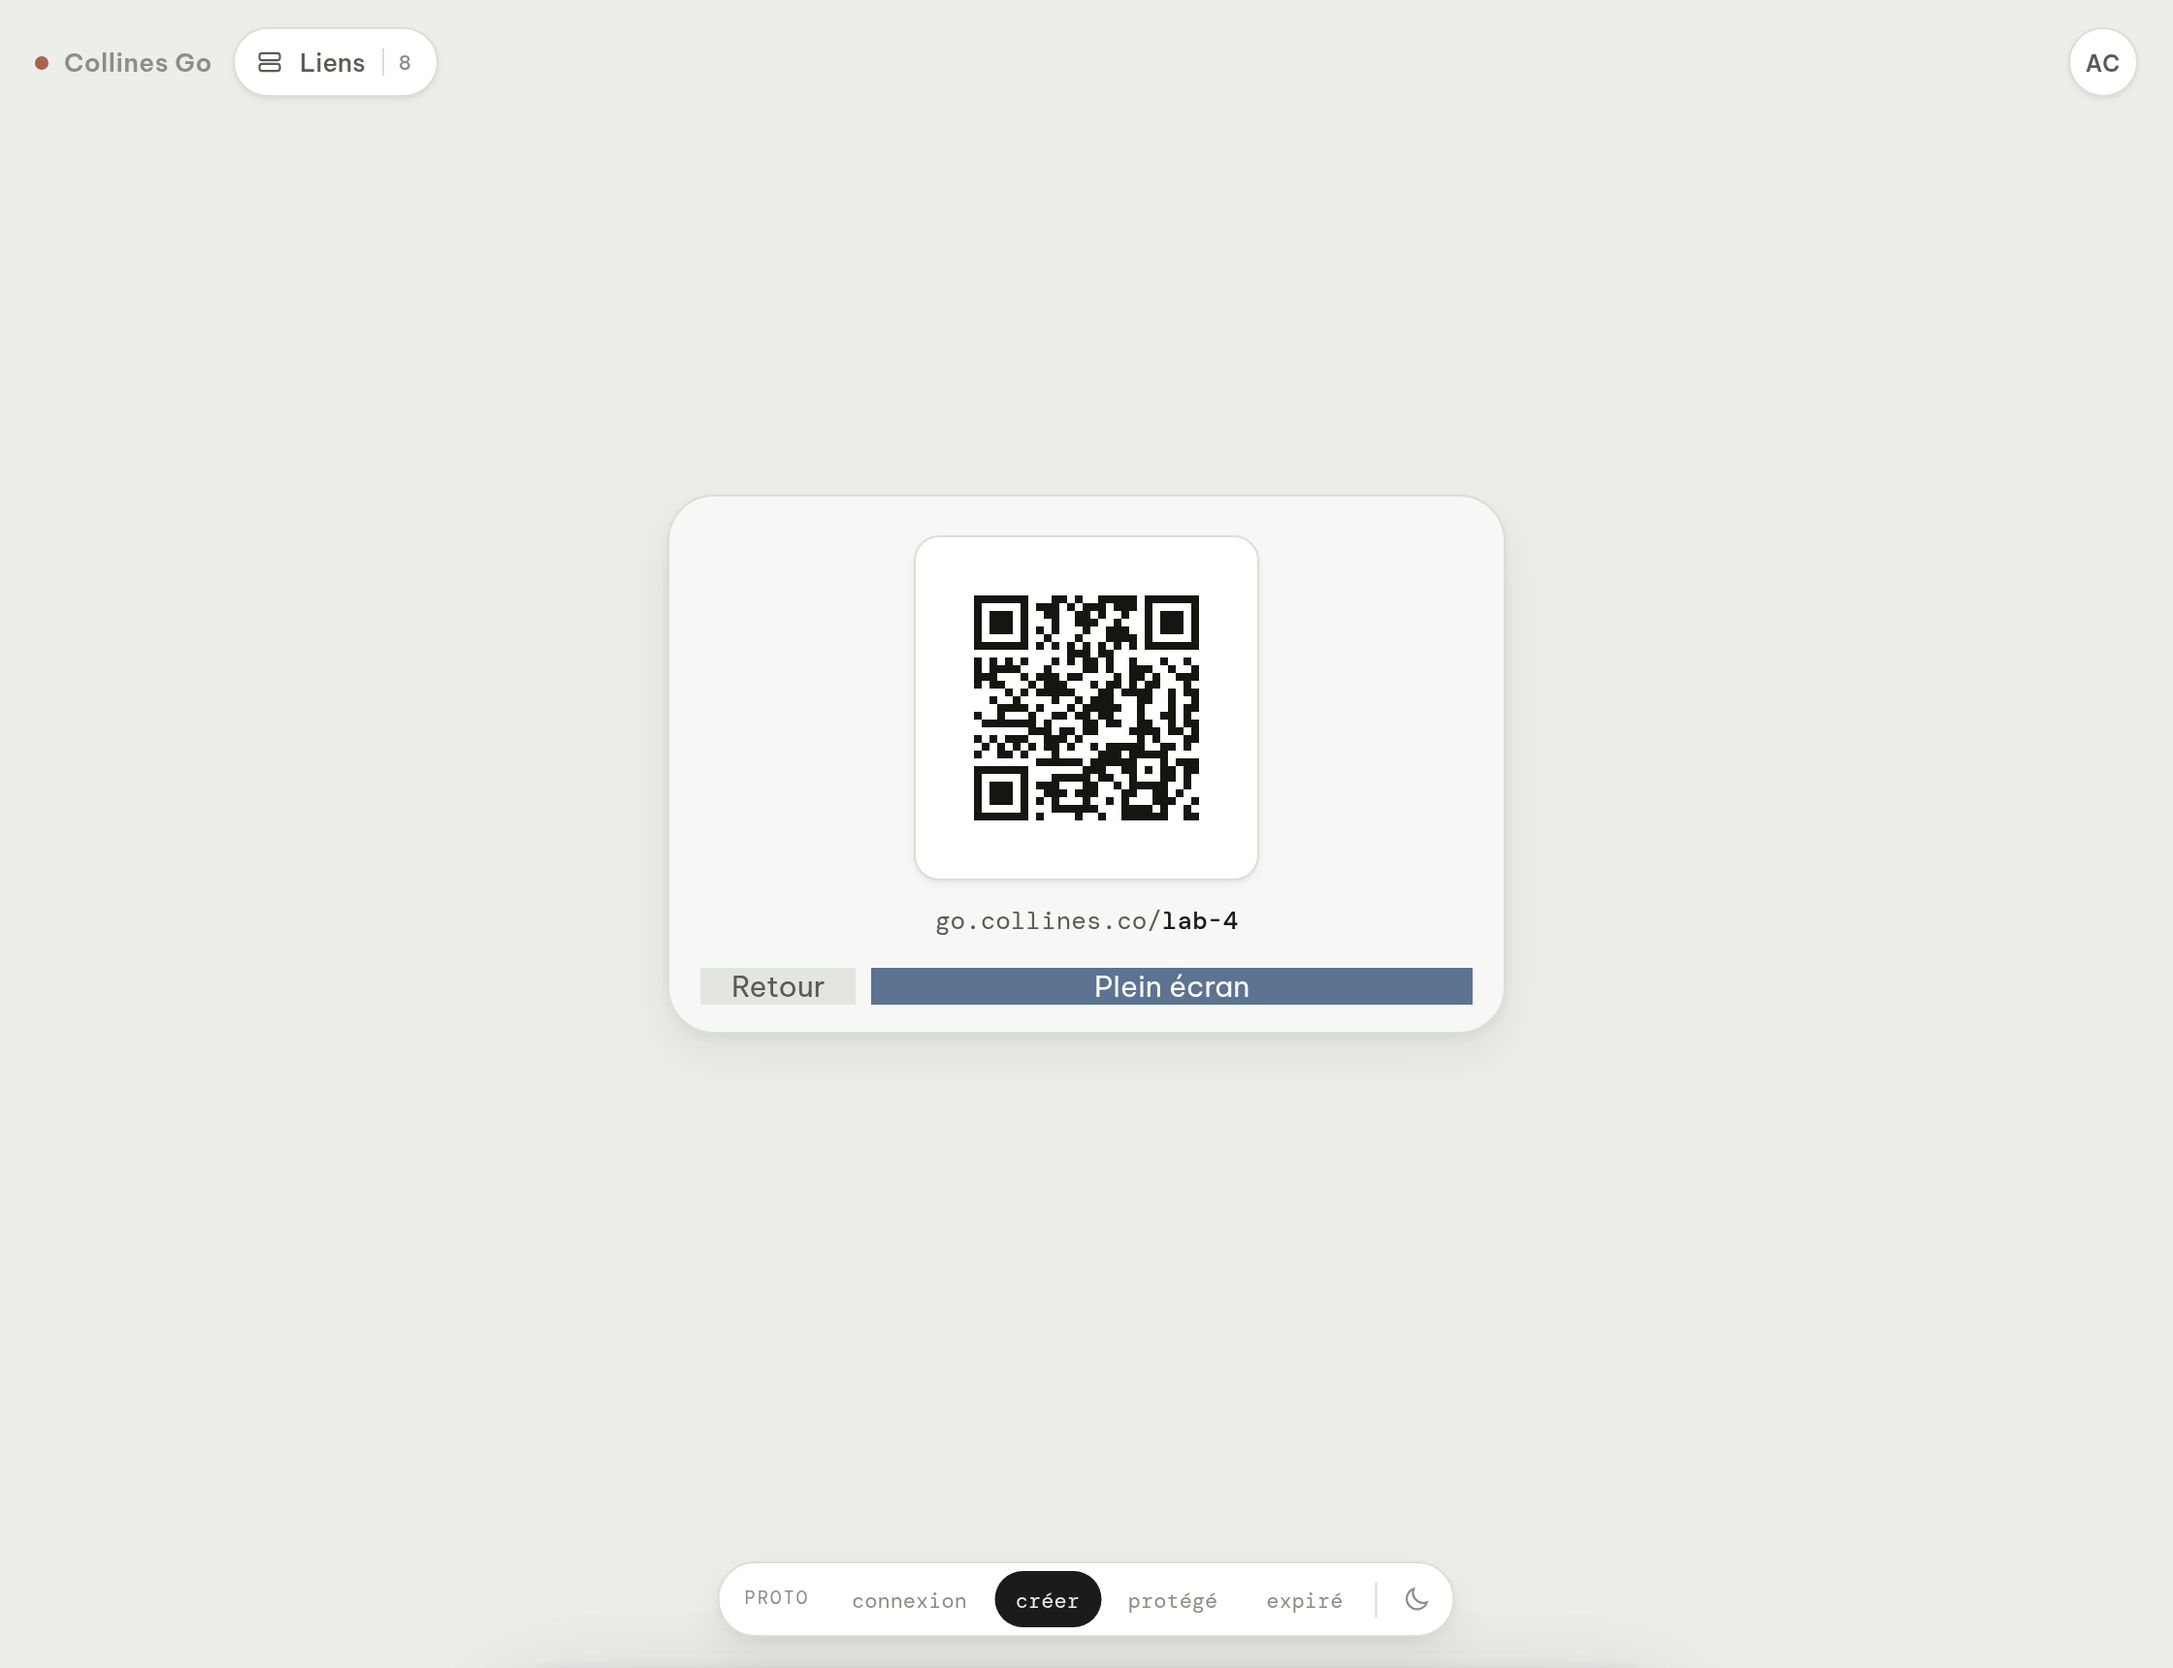
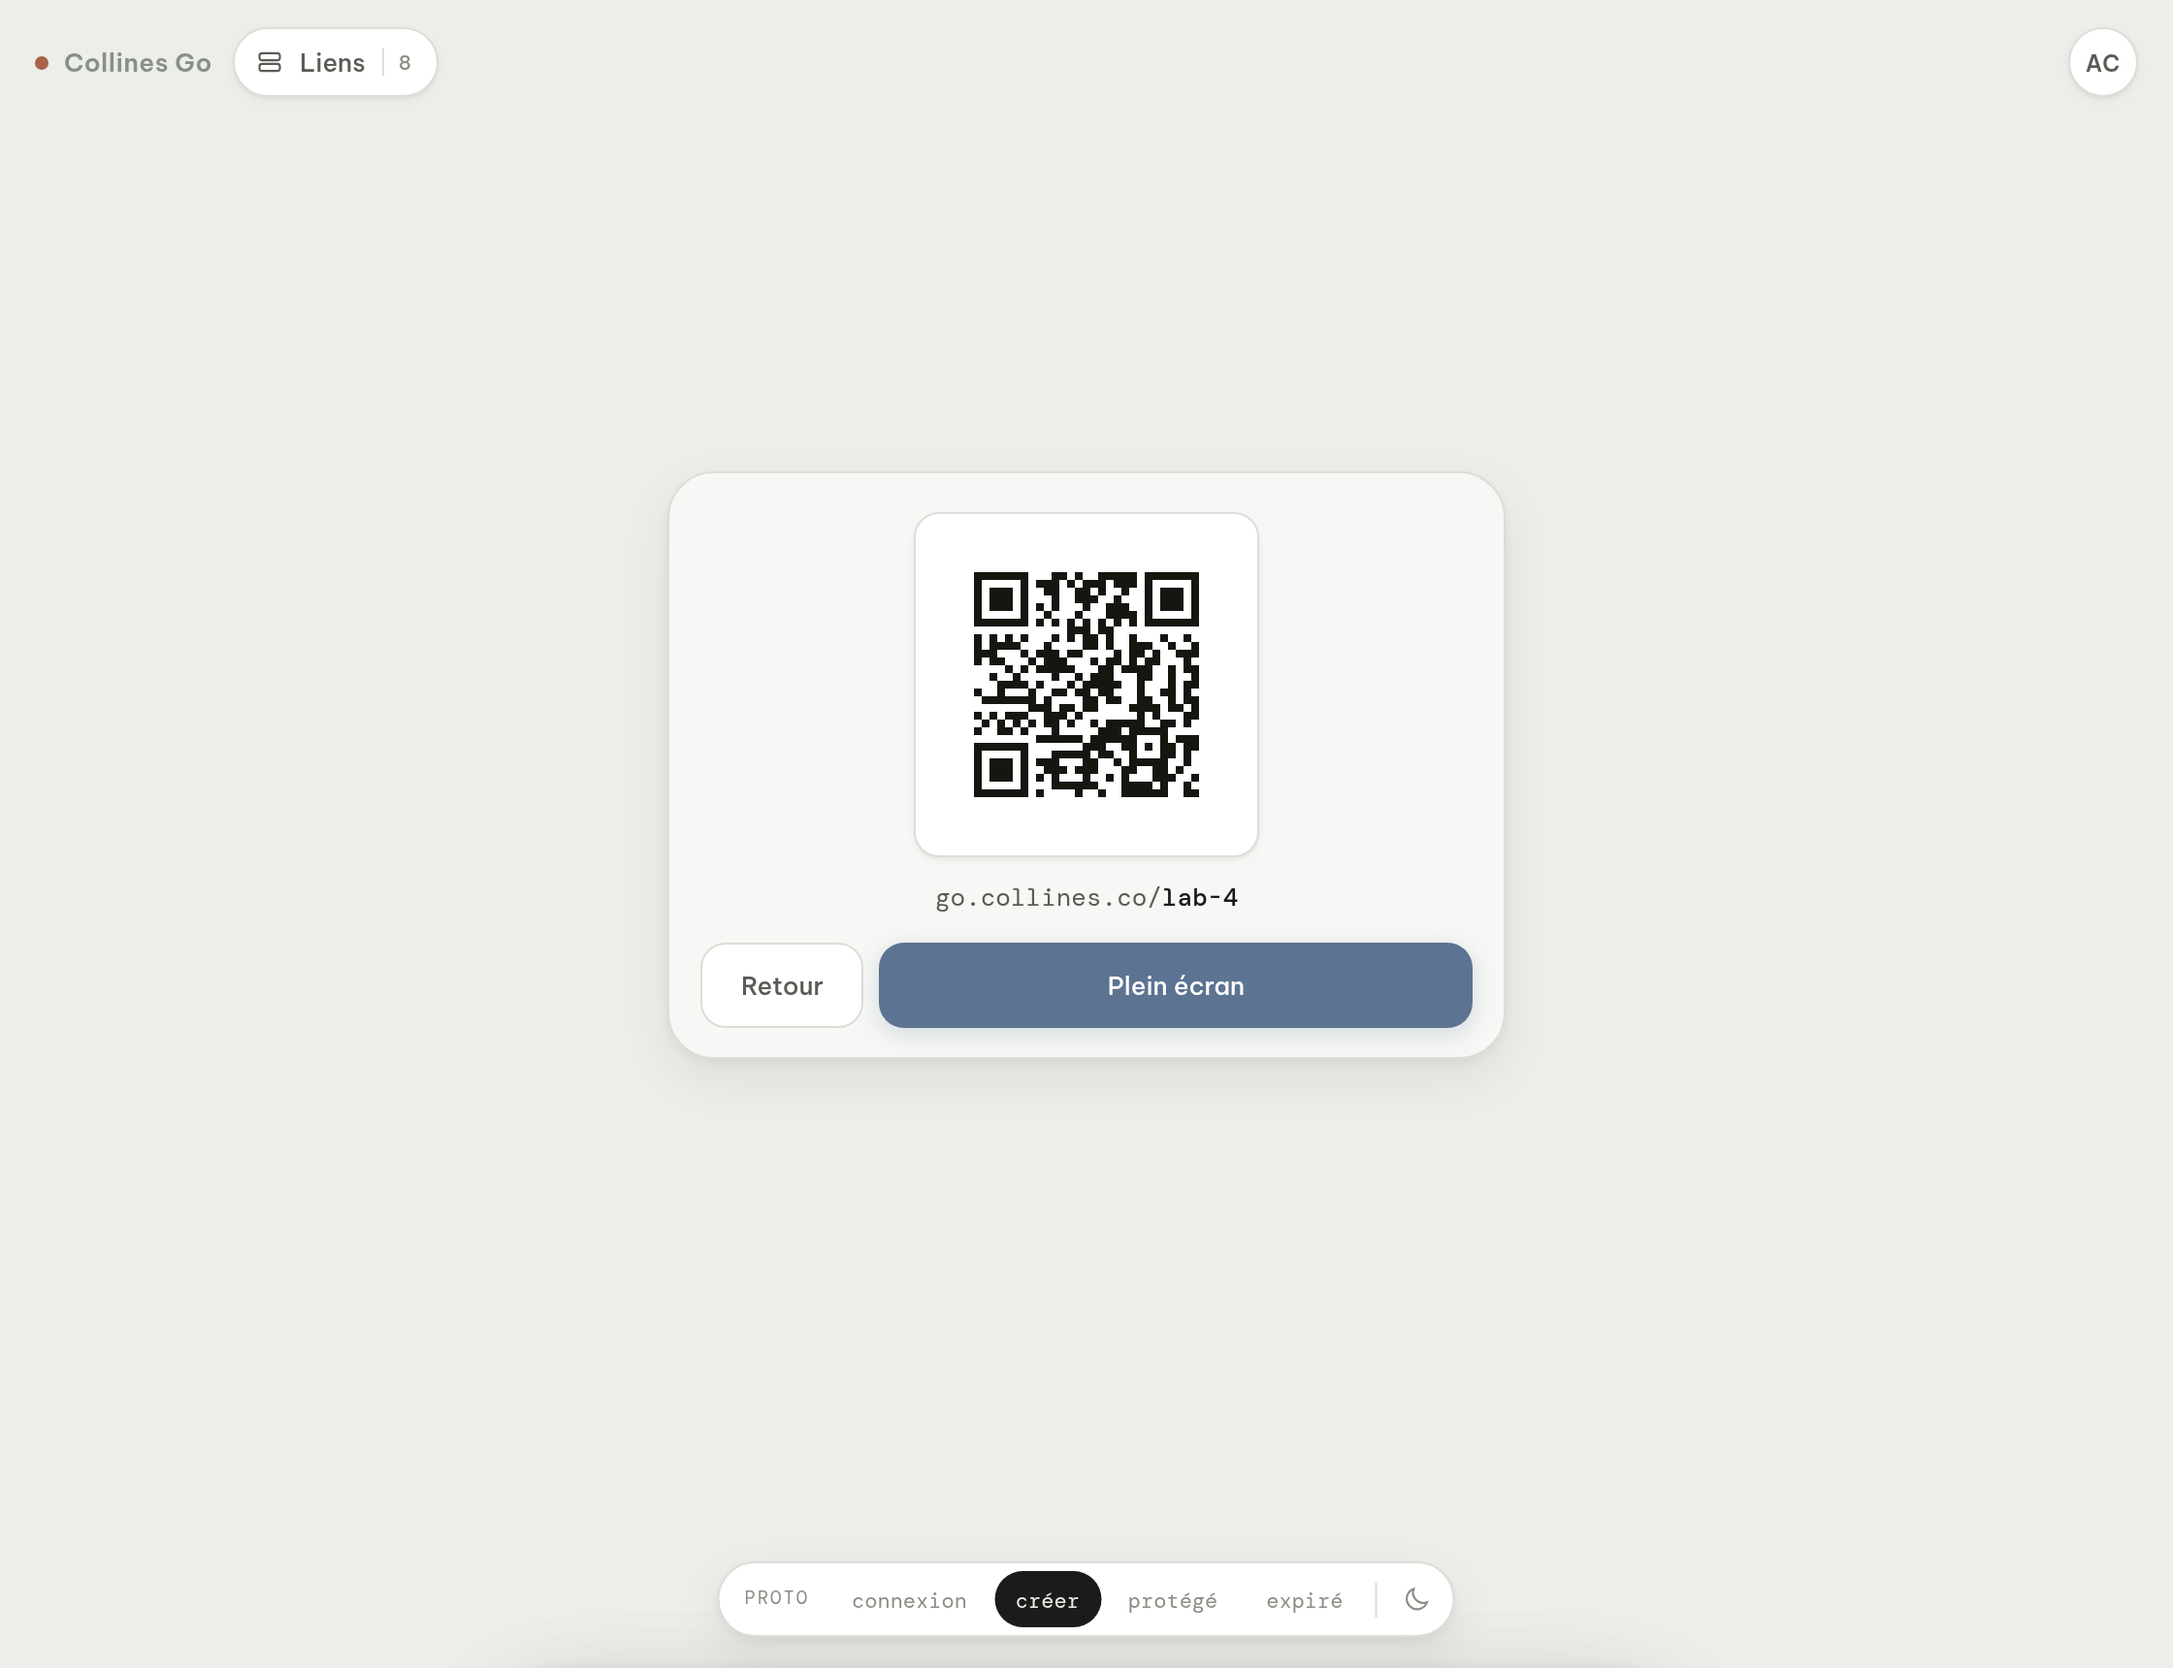
Redesign the created-link pane as a tear-off ticket
The pane itself, not just its animation: the short URL sits above a
perforation - two notches cut into the card's edges with a dashed rule
between them - and the clipboard confirmation sits on the stub below.
Drops the clay underline; the character-by-character arrival stays.

Also give the QR view's Retour and Plein écran buttons the result-action
styling they were missing - they carried the colour classes but none of the
shared height, radius or type, because those live on .result-acts button.

Claude-Session: https://claude.ai/code/session_013QjXYmVZoySZmP3iZZXnxN

Changed region(s): [[0.3125, 0.5238, 0.6875, 0.6471], [0.4375, 0.339, 0.5625, 0.493]]

diff --git a/design/prototype.html b/design/prototype.html
@@ -381,25 +381,38 @@ input:focus{outline:none;}
 .result.on{opacity:1;pointer-events:auto;transform:none;transition-delay:120ms;}
 .link-plate{
   position:relative;
-  display:flex;flex-direction:column;align-items:center;justify-content:center;gap:16px;
-  height:112px;
-  background:var(--raised);border:1px solid var(--line);border-radius:var(--r-l);
+  height:124px;
+  background:var(--raised);
+  border:1px solid var(--line);
+  border-radius:var(--r-l);
+  display:grid;grid-template-rows:1fr 36px;
 }
+.link-plate .top{display:flex;align-items:center;justify-content:center;padding:0 20px;min-width:0;}
 .link-plate .short{
   font-family:var(--mono);font-size:20px;letter-spacing:-.015em;color:var(--ink-3);
+  white-space:nowrap;overflow:hidden;text-overflow:ellipsis;
 }
-.link-plate .short b{position:relative;color:var(--ink);font-weight:500;}
+.link-plate .short b{color:var(--ink);font-weight:500;}
 .link-plate .short b i{
   font-style:normal;display:inline-block;
   animation:mint 420ms var(--ease) both;
   animation-delay:calc(var(--i) * 36ms);
 }
 @keyframes mint{from{opacity:0;transform:translateY(7px);}to{opacity:1;transform:none;}}
-.link-plate .uline{
-  position:absolute;left:0;right:0;bottom:-7px;height:2px;border-radius:2px;
-  background:var(--clay);transform:scaleX(0);transform-origin:left center;
+/* la perforation : deux encoches et un trait pointillé, comme un ticket */
+.link-plate .perf{
+  position:absolute;left:11px;right:11px;top:calc(100% - 36px);
+  border-top:1px dashed var(--line);
 }
-.link-plate.minted .uline{transform:scaleX(1);transition:transform 560ms var(--ease);}
+.link-plate .notch{
+  position:absolute;top:calc(100% - 36px);
+  width:14px;height:14px;border-radius:50%;
+  background:var(--surface);
+  transform:translateY(-50%);
+}
+.link-plate .notch.l{left:-7px;}
+.link-plate .notch.r{right:-7px;}
+.link-plate .foot{display:flex;align-items:center;justify-content:center;}
 .link-plate .copied{
   display:flex;align-items:center;gap:5px;
   font-size:11.5px;font-weight:500;color:var(--ok);
@@ -409,18 +422,22 @@ input:focus{outline:none;}
 .link-plate .copied.on{opacity:1;transform:none;}
 
 .result-acts{display:flex;gap:8px;margin-top:10px;}
-.result-acts button{
+.result-acts button,.qr-acts button{
   height:44px;border-radius:var(--r-m);
   display:inline-flex;align-items:center;justify-content:center;gap:7px;
   font-size:13px;font-weight:500;
   transition:transform var(--t-fast) var(--ease), background var(--t-fast) var(--ease),
              color var(--t-fast) var(--ease), border-color var(--t-fast) var(--ease);
 }
-.result-acts button:hover{transform:translateY(-1px);}
-.result-acts button:active{transform:translateY(0) scale(.98);}
+.result-acts button:hover,.qr-acts button:hover{transform:translateY(-1px);}
+.result-acts button:active,.qr-acts button:active{transform:translateY(0) scale(.98);}
 .ra-copy{flex:1;background:var(--clay);color:var(--on-accent);box-shadow:0 3px 12px rgba(var(--clay-glow),.26);}
 .ra-side{flex:none;width:52px;background:var(--raised);border:1px solid var(--line);color:var(--ink-2);}
 .ra-side:hover{border-color:var(--line-2);color:var(--ink);}
+.ra-ghost{flex:none;padding:0 20px;background:var(--raised);border:1px solid var(--line);color:var(--ink-2);}
+.ra-ghost:hover{border-color:var(--line-2);color:var(--ink);}
+.ra-main{flex:1;background:var(--slate);color:var(--on-accent);box-shadow:0 3px 12px rgba(var(--slate-glow),.24);}
+.ra-main:hover{filter:brightness(1.06);}
 .result-meta{display:flex;align-items:center;gap:7px;flex-wrap:wrap;margin-top:11px;min-height:22px;}
 .tag{
   display:inline-flex;align-items:center;gap:5px;
@@ -866,8 +883,11 @@ input:focus{outline:none;}
 
         <div class="result" id="resultView">
           <div class="link-plate" id="linkPlate">
-            <span class="short">go.collines.co/<b id="resSlug">x7kq2</b><i class="uline" aria-hidden="true"></i></span>
-            <span class="copied" id="copiedNote">Copié dans le presse-papier</span>
+            <span class="notch l" aria-hidden="true"></span>
+            <span class="notch r" aria-hidden="true"></span>
+            <i class="perf" aria-hidden="true"></i>
+            <span class="top"><span class="short">go.collines.co/<b id="resSlug">x7kq2</b></span></span>
+            <span class="foot"><span class="copied" id="copiedNote">Copié dans le presse-papier</span></span>
           </div>
           <div class="result-acts">
             <button class="ra-copy" id="copyBtn">
@@ -890,8 +910,8 @@ input:focus{outline:none;}
           <div class="qr-card"><canvas id="qrCanvas" width="168" height="168"></canvas></div>
           <div class="qr-url">go.collines.co/<b id="qrSlug">x7kq2</b></div>
           <div class="qr-acts">
-            <button class="pa-ghost" id="qrBack">Retour</button>
-            <button class="pa-main" id="qrBig" style="background:var(--slate)">Plein écran</button>
+            <button class="ra-ghost" id="qrBack">Retour</button>
+            <button class="ra-main" id="qrBig">Plein écran</button>
           </div>
         </div>
 
@@ -1343,7 +1363,7 @@ $('#loginBtn').addEventListener('click', () => setView('v-create'));
 const stage = $('#stage');
 const bigbtn = $('#bigbtn'), bigLbl = $('#bigLbl'), bigHint = $('#bigHint');
 const urlhead = $('#urlhead'), urlText = $('#urlText');
-const resultView = $('#resultView'), qrView = $('#qrView'), linkPlate = $('#linkPlate');
+const resultView = $('#resultView'), qrView = $('#qrView');
 const cells = [$('#cell-shorten'), $('#cell-slug'), $('#cell-pass'), $('#cell-exp')];
 const KIND  = ['shorten','slug','pass','exp'];
 const IDX   = {slug:1, pass:2, exp:3};
@@ -1418,7 +1438,6 @@ function resetAll(){
   Object.values(PANELS).forEach(p => p.classList.remove('on'));
   resultView.classList.remove('on');
   qrView.classList.remove('on');
-  linkPlate.classList.remove('minted');
   cells.forEach((c,i) => { c.className = 'cell c-'+KIND[i]; c.style.cssText=''; });
   urlhead.classList.remove('on');
   bigbtn.classList.remove('gone');
@@ -1634,9 +1653,6 @@ const CHECK = '<svg width="12" height="12" viewBox="0 0 24 24" fill="none" strok
 function mintSlug(slug){
   $('#resSlug').innerHTML = slug.split('')
     .map((ch,i) => '<i style="--i:'+i+'">'+ch+'</i>').join('');
-  linkPlate.classList.remove('minted');
-  const after = reduce ? 0 : slug.length*36 + 260;
-  setTimeout(() => linkPlate.classList.add('minted'), after);
 }
 
 async function shorten(){

diff --git a/README.md b/README.md
@@ -59,6 +59,11 @@ without passing through the list.
 **Account** — the avatar opens by width only, keeping its height, into a
 single `Déconnexion` action. Clicking anywhere else dismisses it.
 
+**The created link** is presented as a tear-off ticket: the short URL above a
+perforation — two notches cut into the card's edges and a dashed rule between
+them — and the clipboard confirmation on the stub below. The slug settles in
+character by character as it arrives, then stays still.
+
 **Clipboard** — auto-paste is attempted on load and works where the browser
 grants clipboard-read without a gesture; everywhere else the paste button is
 one tap and the failure is invisible. Auto-copy on create hands the clipboard
